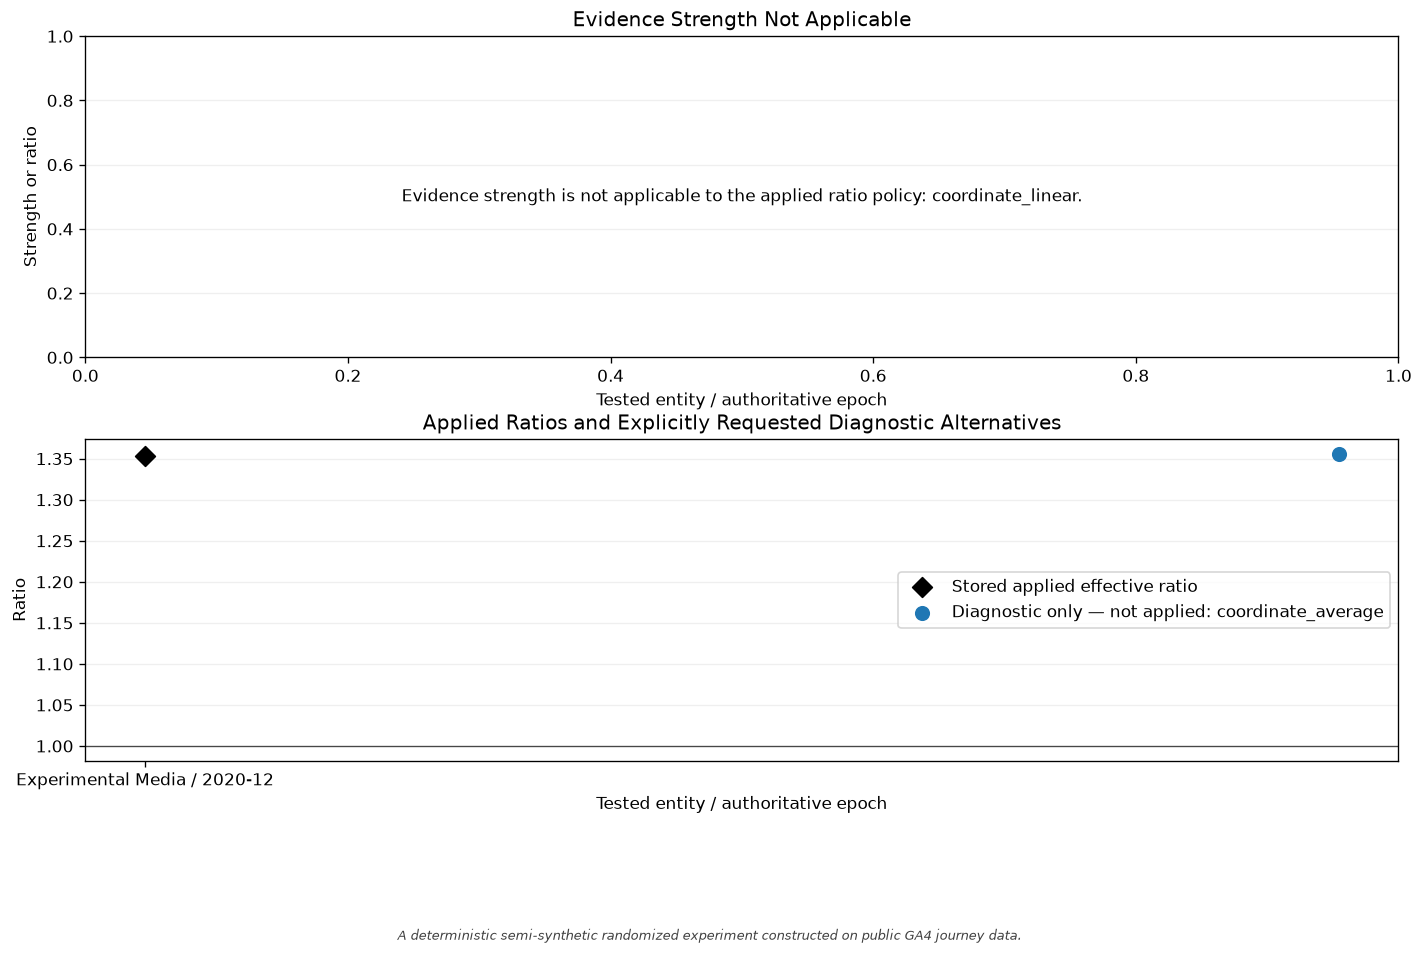
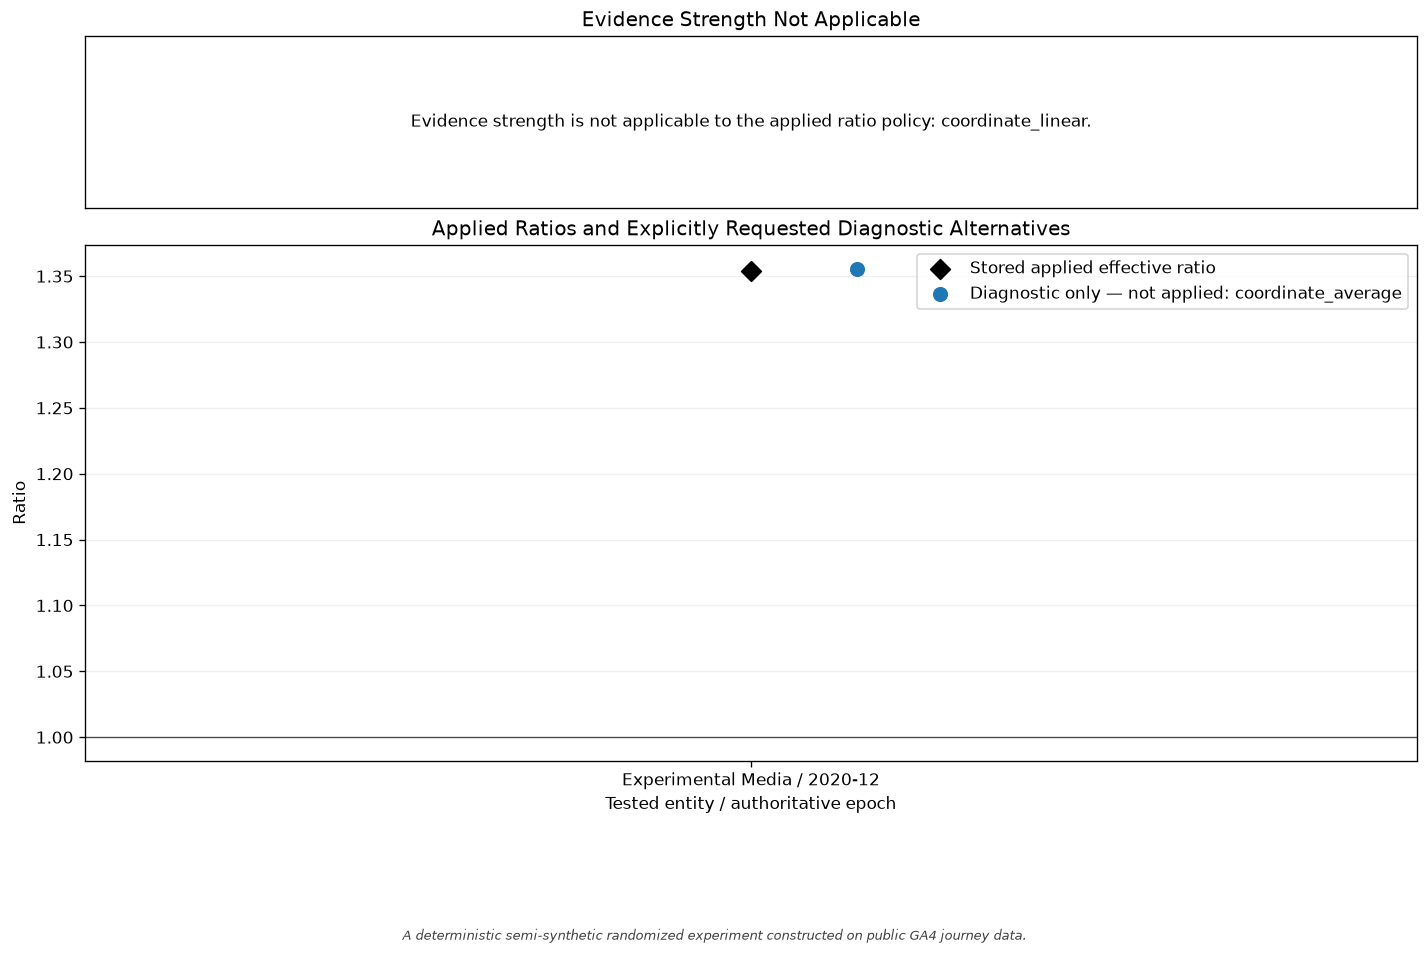
Fix the evidence-strength figure's axis limits and statement panels
The GA4 example's plot_evidence_strength() figure looked broken. The
numbers behind it are correct; the figure drew them badly.

Data, checked independently from the two evidence anchors
(1.2322 at 2020-11-16, 1.4791 at 2021-01-16, linear in between):
- stored applied ratio for Experimental Media / 2020-12, policy
  representative_coordinate at 2020-12-16: 1.353631;
- diagnostic coordinate_average over the window [2020-12-01,
  2021-01-01), i.e. the linear value at its midpoint 2020-12-16 12:00:
  1.355655.
Both match what the result stores and what the figure plots.

Plot defects:
- The diagnostic panel left its x-limits to autoscale. Alternatives are
  dodged 0.08 to the right of the applied marker, so with one requested
  pair the limits shrank to (-0.004, 0.084): the applied ratio sat on
  the left edge over the only tick and the alternative on the right
  edge over nothing, reading as two categories. The limits are now one
  band per requested pair, (-0.5, n - 0.5), so each pair's markers sit
  together at its tick.
- A panel that only carries a statement ("Evidence strength is not
  applicable to the applied ratio policy: ...", "No diagnostic
  alternatives were requested; ...") was drawn as a full-size data axes
  with a 0.0-1.0 scale on both axes, axis labels, a grid and, for the
  diagnostic panel, the ratio = 1 reference line. It read as an empty
  plot. A statement panel now has no ticks, axis labels, grid or
[…]

diff --git a/tests/test_temporal_evidence_strength_plot.py b/tests/test_temporal_evidence_strength_plot.py
@@ -230,3 +230,167 @@ def test_material_diagnostic_inputs_are_never_ignored() -> None:
         result.plot_evidence_strength(
             diagnostic_conflict_policies={("A", "E1"): ("pooled_lift",)}
         )
+
+
+def _two_epoch_coordinate_linear_result():
+    return TemporalAttributionCalibration(
+        [_evidence("a-left", 0.8, coordinate=0.0), _evidence("a-right", 1.2, coordinate=10.0)]
+    ).apply_estimates(
+        {
+            "E1": {"A": 100.0, "B": 100.0},
+            "E2": {"A": 100.0, "B": 100.0},
+        },
+        ratio_policy="coordinate_linear",
+        epoch_ratio_policy="coordinate_average",
+        residual_policy="allow_total_change",
+        epoch_windows={"E1": (0.0, 5.0), "E2": (5.0, 10.0)},
+    )
+
+
+def _marker_positions(ax):
+    return [
+        x
+        for collection in ax.collections
+        if not collection.get_label().startswith("_")
+        for x, _ in collection.get_offsets().tolist()
+    ]
+
+
+def test_one_requested_pair_keeps_its_markers_beside_its_tick() -> None:
+    """Autoscaled limits put one pair's markers on opposite panel edges."""
+    result = _two_epoch_coordinate_linear_result()
+
+    figure = result.plot_evidence_strength(
+        diagnostic_epoch_ratio_policies={
+            ("A", "E1"): ("representative_coordinate", "coordinate_average")
+        },
+        diagnostic_epoch_coordinates={"E1": 1.0},
+    )
+    try:
+        diagnostic_ax = figure.axes[1]
+        assert diagnostic_ax.get_xlim() == (-0.5, 0.5)
+        assert list(diagnostic_ax.get_xticks()) == [0]
+        assert [tick.get_text() for tick in diagnostic_ax.get_xticklabels()] == [
+            "A / E1"
+        ]
+        positions = _marker_positions(diagnostic_ax)
+        assert len(positions) == 3
+        # Every marker is within a quarter band of the tick it belongs to.
+        assert all(abs(position) < 0.25 for position in positions)
+    finally:
+        plt.close(figure)
+
+
+def test_each_requested_pair_has_its_own_band() -> None:
+    result = _two_epoch_coordinate_linear_result()
+
+    figure = result.plot_evidence_strength(
+        diagnostic_epoch_ratio_policies={
+            ("A", "E1"): ("representative_coordinate",),
+            ("A", "E2"): ("representative_coordinate",),
+        },
+        diagnostic_epoch_coordinates={"E1": 1.0, "E2": 9.0},
+    )
+    try:
+        diagnostic_ax = figure.axes[1]
+        assert diagnostic_ax.get_xlim() == (-0.5, 1.5)
+        assert [tick.get_text() for tick in diagnostic_ax.get_xticklabels()] == [
+            "A / E1",
+            "A / E2",
+        ]
+        values = _collection_values(diagnostic_ax)
+        assert values["Stored applied effective ratio"] == pytest.approx([0.9, 1.1])
+        assert values[
+            "Diagnostic only — not applied: representative_coordinate"
+        ] == pytest.approx([0.84, 1.16])
+        positions = sorted(_marker_positions(diagnostic_ax))
+        assert [round(position) for position in positions] == [0, 0, 1, 1]
+        assert all(
+            abs(position - round(position)) < 0.25 for position in positions
+        )
+    finally:
+        plt.close(figure)
+
+
+def _is_statement_panel(ax) -> bool:
+    """A panel that states a fact carries no scale, axis label or data line."""
+    return (
+        list(ax.get_xticks()) == []
+        and list(ax.get_yticks()) == []
+        and ax.get_xlabel() == ""
+        and ax.get_ylabel() == ""
+        and not ax.lines
+        and len(ax.texts) == 1
+    )
+
+
+def test_statement_panel_is_a_short_strip_without_a_value_scale() -> None:
+    """A not-applicable panel must not look like an empty data plot."""
+    result = _two_epoch_coordinate_linear_result()
+
+    figure = result.plot_evidence_strength(
+        diagnostic_epoch_ratio_policies={("A", "E1"): ("representative_coordinate",)},
+        diagnostic_epoch_coordinates={"E1": 1.0},
+    )
+    try:
+        strength_ax, diagnostic_ax = figure.axes
+        assert strength_ax.get_title() == "Evidence Strength Not Applicable"
+        assert _is_statement_panel(strength_ax)
+        assert not _is_statement_panel(diagnostic_ax)
+        assert diagnostic_ax.get_ylabel() == "Ratio"
+        assert diagnostic_ax.get_xlabel() == "Tested entity / authoritative epoch"
+        figure.canvas.draw()
+        assert (
+            strength_ax.get_position().height
+            < 0.5 * diagnostic_ax.get_position().height
+        )
+    finally:
+        plt.close(figure)
+
+
+def test_unrequested_diagnostics_panel_is_a_statement_under_plotted_strength() -> None:
+    result = TemporalAttributionCalibration([_evidence("a-source", 0.8)]).apply_estimates(
+        {"E1": {"A": 100.0, "B": 100.0}},
+        ratio_policy="explicit_strength",
+        epoch_ratio_policy="direct",
+        residual_policy="allow_total_change",
+        source_evidence={"A": "a-source"},
+        evidence_strength={("A", "E1"): 0.5},
+    )
+
+    figure = result.plot_evidence_strength()
+    try:
+        strength_ax, diagnostic_ax = figure.axes
+        assert _is_statement_panel(diagnostic_ax)
+        assert not _is_statement_panel(strength_ax)
+        assert strength_ax.get_ylabel() == "Strength or ratio"
+        assert strength_ax.get_xlabel() == "Tested entity / authoritative epoch"
+        figure.canvas.draw()
+        assert (
+            diagnostic_ax.get_position().height
+            < 0.5 * strength_ax.get_position().height
+        )
+    finally:
+        plt.close(figure)
+
+
+def test_two_statement_panels_share_the_figure_equally() -> None:
+    result = TemporalAttributionCalibration([_evidence("a-test", 0.8)]).apply_estimates(
+        {"E1": {"A": 100.0, "B": 100.0}},
+        ratio_policy="explicit_ratio",
+        epoch_ratio_policy="direct",
+        residual_policy="allow_total_change",
+        ratio_schedule={("A", "E1"): 0.8},
+    )
+
+    figure = result.plot_evidence_strength()
+    try:
+        strength_ax, diagnostic_ax = figure.axes
+        assert _is_statement_panel(strength_ax)
+        assert _is_statement_panel(diagnostic_ax)
+        figure.canvas.draw()
+        assert strength_ax.get_position().height == pytest.approx(
+            diagnostic_ax.get_position().height
+        )
+    finally:
+        plt.close(figure)

diff --git a/do_attribution/calibration.py b/do_attribution/calibration.py
@@ -8713,6 +8713,9 @@ class TemporalCalibrationResult:
             )
             strength_ax.set_title("Explicit Evidence Strength Schedule")
             strength_ax.legend(loc="best")
+            strength_ax.set_ylabel("Strength or ratio")
+            strength_ax.set_xlabel("Tested entity / authoritative epoch")
+            strength_ax.grid(axis="y", alpha=0.2)
         else:
             strength_ax.text(
                 0.5,
@@ -8724,9 +8727,10 @@ class TemporalCalibrationResult:
                 va="center",
             )
             strength_ax.set_title("Evidence Strength Not Applicable")
-        strength_ax.set_ylabel("Strength or ratio")
-        strength_ax.set_xlabel("Tested entity / authoritative epoch")
-        strength_ax.grid(axis="y", alpha=0.2)
+            # The panel states a fact and plots nothing.  A value scale, axis
+            # labels or a grid would present it as an empty data plot.
+            strength_ax.set_xticks([])
+            strength_ax.set_yticks([])
 
         diagnostic_values: list[
             tuple[tuple[Entity, Epoch], str, float | None]
@@ -8997,7 +9001,16 @@ class TemporalCalibrationResult:
             diagnostic_ax.set_xticklabels(
                 [f"{entity} / {epoch}" for entity, epoch in requested_pairs]
             )
+            # One band per requested pair, centered on its tick.  Left to
+            # autoscale, the limits shrink to the markers themselves: with a
+            # single pair the applied ratio and its alternatives land on
+            # opposite edges of the panel and read as separate categories.
+            diagnostic_ax.set_xlim(-0.5, len(requested_pairs) - 0.5)
             diagnostic_ax.legend(loc="best")
+            diagnostic_ax.axhline(1.0, color="black", linewidth=0.8, alpha=0.7)
+            diagnostic_ax.set_xlabel("Tested entity / authoritative epoch")
+            diagnostic_ax.set_ylabel("Ratio")
+            diagnostic_ax.grid(axis="y", alpha=0.2)
         else:
             diagnostic_ax.text(
                 0.5,
@@ -9008,13 +9021,21 @@ class TemporalCalibrationResult:
                 ha="center",
                 va="center",
             )
-        diagnostic_ax.axhline(1.0, color="black", linewidth=0.8, alpha=0.7)
+            # As above: a statement, not an empty data plot.
+            diagnostic_ax.set_xticks([])
+            diagnostic_ax.set_yticks([])
         diagnostic_ax.set_title(
             "Applied Ratios and Explicitly Requested Diagnostic Alternatives"
         )
-        diagnostic_ax.set_xlabel("Tested entity / authoritative epoch")
-        diagnostic_ax.set_ylabel("Ratio")
-        diagnostic_ax.grid(axis="y", alpha=0.2)
+        # A panel that only carries a statement is a short strip; the room
+        # goes to the panel that plots values.  Two panels of the same kind
+        # share the figure equally.
+        strength_ax.get_gridspec().set_height_ratios(
+            [
+                3 if self.ratio_policy == "explicit_strength" else 1,
+                3 if diagnostic_values else 1,
+            ]
+        )
         fig.tight_layout()
         return fig
 
